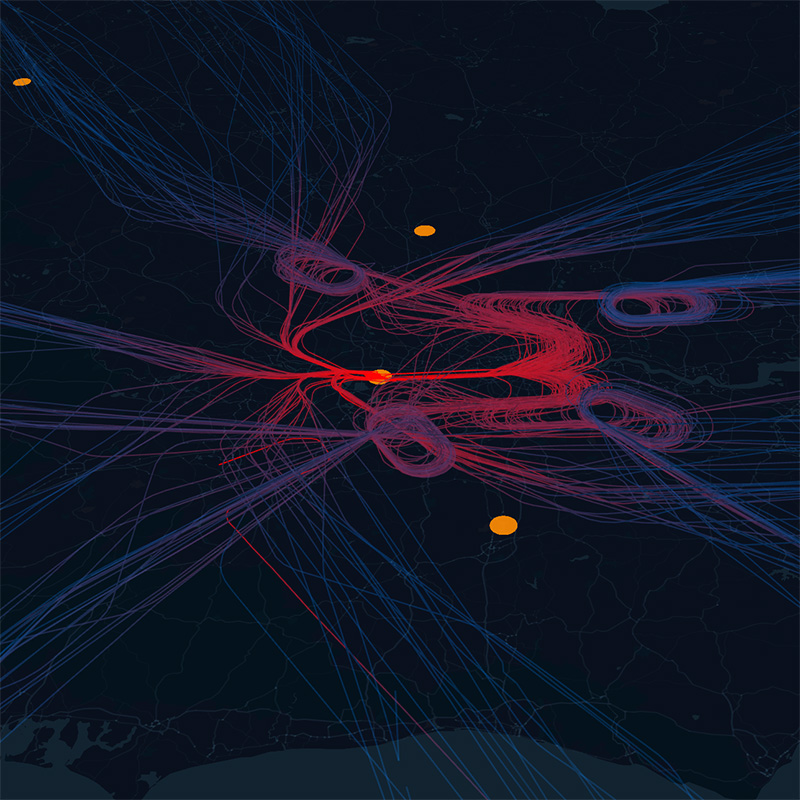
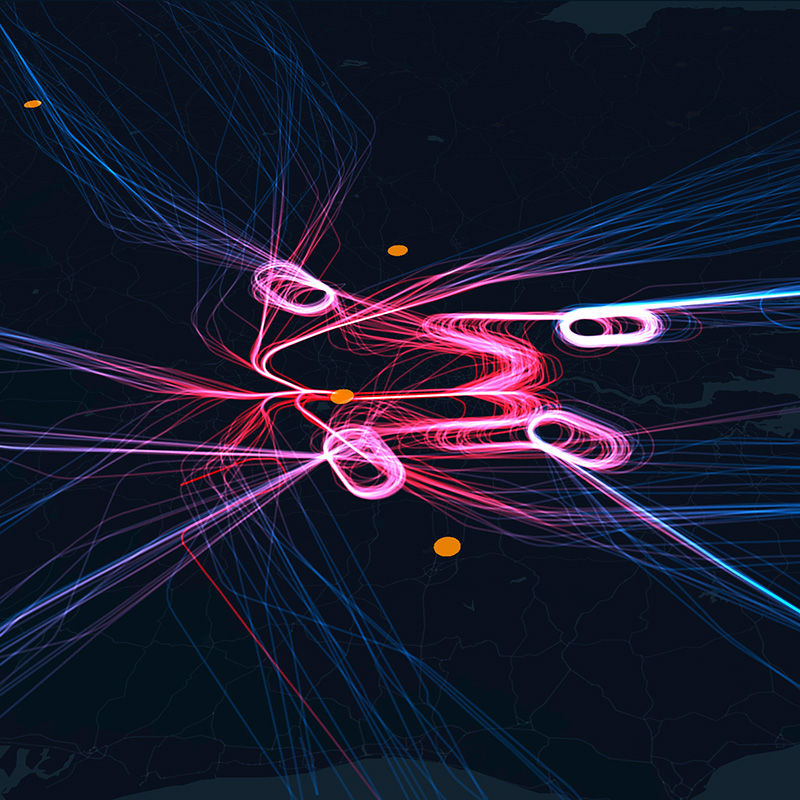
update line layer styles

diff --git a/demo/src/components/demos/line-demo.js b/demo/src/components/demos/line-demo.js
@@ -34,7 +34,7 @@ export default class LineDemo extends Component {
   static renderInfo(meta) {
     return (
       <div>
-        <h3>Flights In And Out Of Heathrow Airport</h3>
+        <h3>Flights In And Out Of <br/>Heathrow Airport</h3>
         <p>Flight paths from a 4 hour window on March 28th, 2017</p>
         <p>Flight tracking data source:
           <a href="https://opensky-network.org/"> The OpenSky Network</a><br />

diff --git a/demo/src/components/demos/icon-demo.js b/demo/src/components/demos/icon-demo.js
@@ -38,7 +38,7 @@ export default class IconDemo extends Component {
   static renderInfo(meta) {
     return (
       <div>
-        <h3>Where Films Were Made (2007 - 2017)</h3>
+        <h3>Where Films Were Made <br/>(2007-2017)</h3>
         <p>Click a pin to expand detials.</p>
         <p>Data source: <a href="http://www.imdb.com/conditions">IMDB</a></p>
         <div className="layout">

diff --git a/examples/line/deckgl-overlay.js b/examples/line/deckgl-overlay.js
@@ -33,8 +33,8 @@ export default class DeckGLOverlay extends Component {
   }
 
   _initialize(gl) {
-    gl.enable(gl.DEPTH_TEST);
-    gl.depthFunc(gl.LEQUAL);
+    gl.blendFuncSeparate(gl.SRC_ALPHA, gl.ONE, gl.ONE_MINUS_DST_ALPHA, gl.ONE);
+    gl.blendEquation(gl.FUNC_ADD);
   }
 
   render() {
